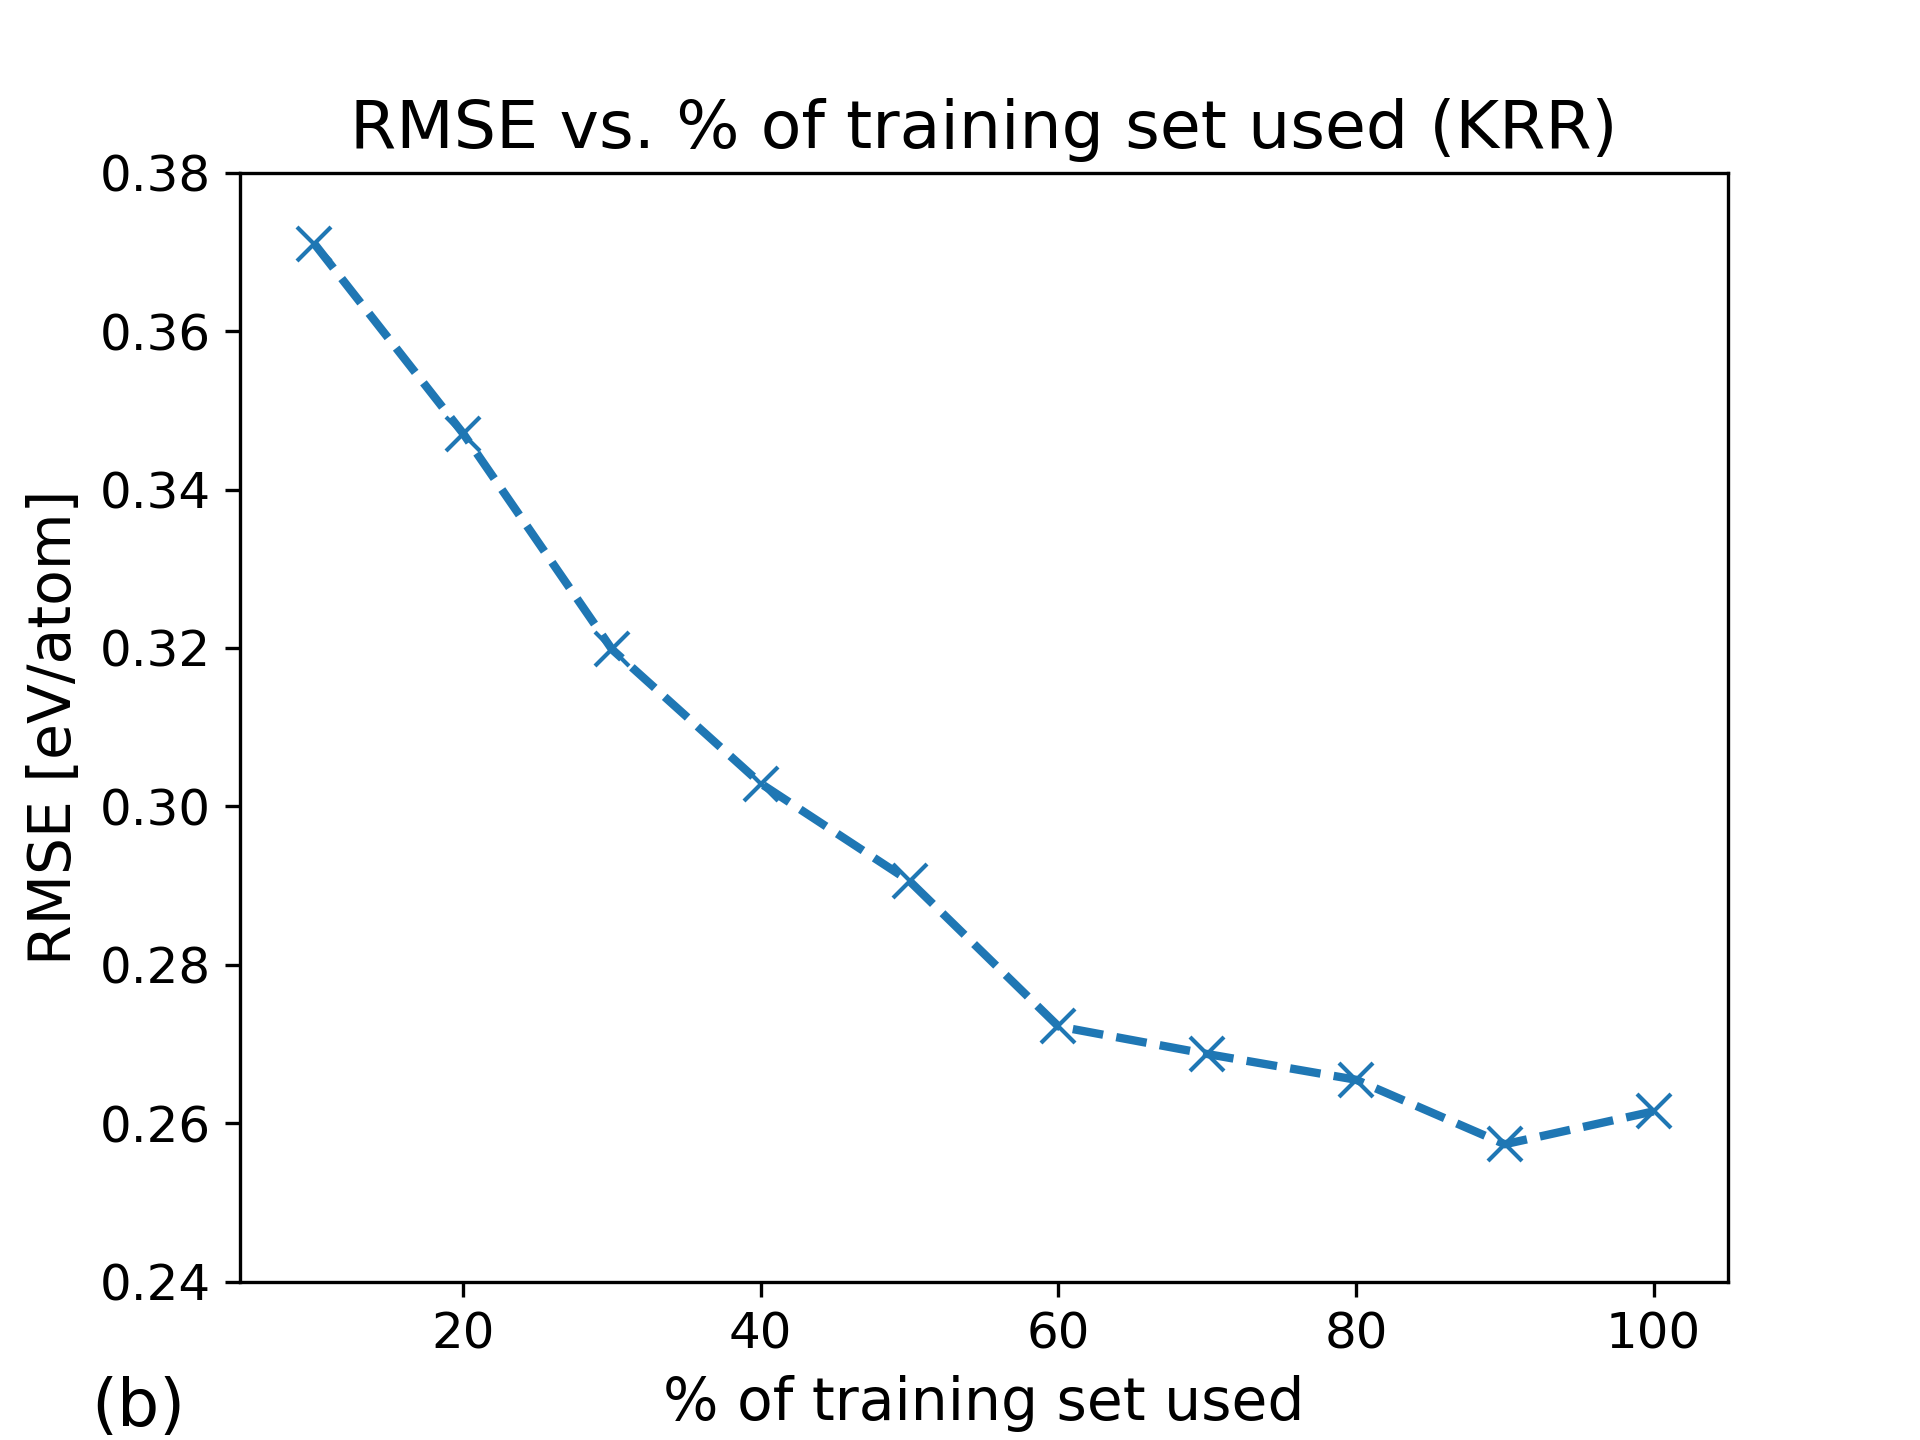
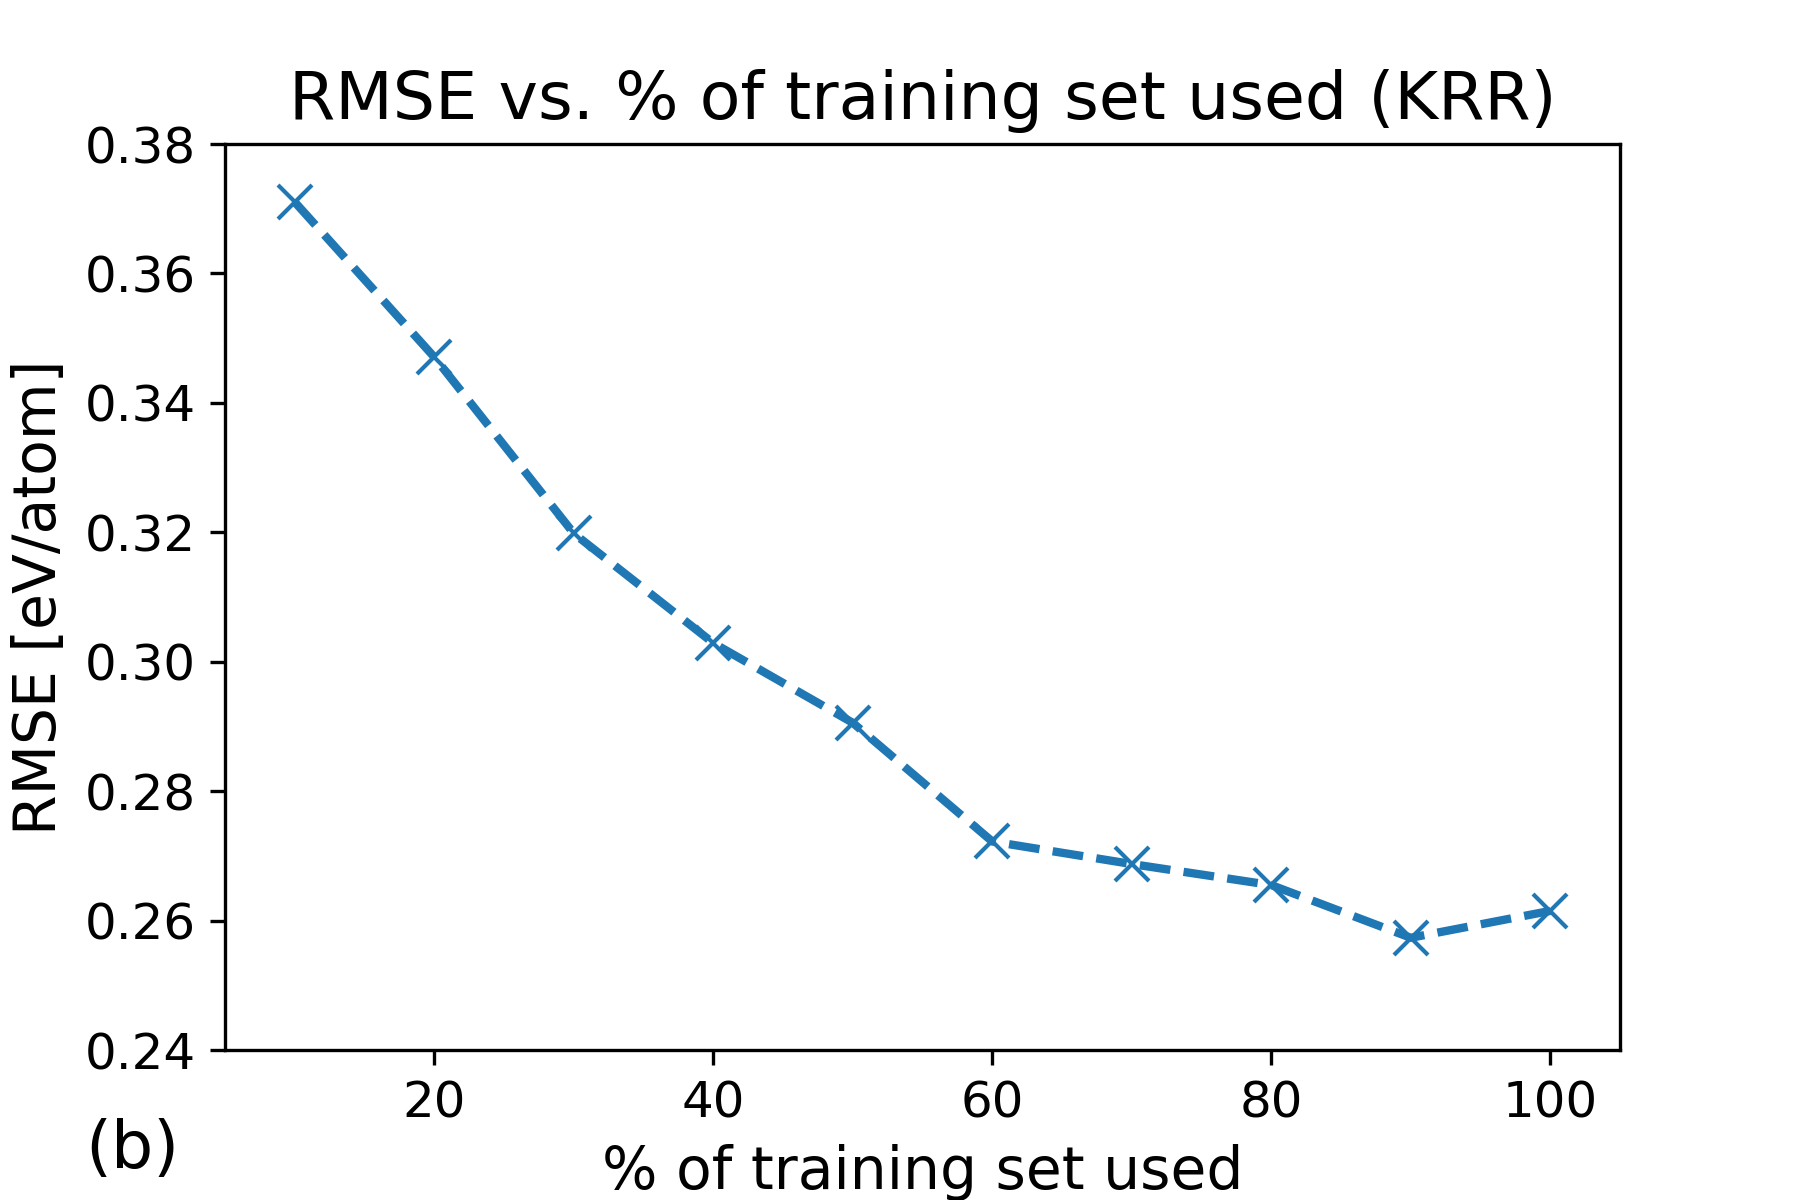
x

diff --git a/sigmoid_relu_plot.py b/sigmoid_relu_plot.py
@@ -1,0 +1,41 @@
+#!/usr/bin/env python3
+# -*- coding: utf-8 -*-
+"""
+Created on Wed Jan 16 01:03:36 2019
+
+@author: simon
+"""
+import math
+import numpy as np
+import matplotlib.pyplot as plt
+
+def sigmoid(z):
+    return 1/(1+math.exp(-z))
+
+def relu(z):
+    return max(0,z)
+
+x=np.arange(-10,10,0.01)
+y1=np.array(list(map(sigmoid, x)))
+y2=np.array(list(map(relu, x)))
+
+
+ax=plt.axes()
+plt.text(0.05,0.9,r'$\sigma (z)=\frac{1}{1+e^{-z}}$',size=20, transform=ax.transAxes)
+plt.text(-0.1,-0.13,'(a)',size=16, transform=ax.transAxes)
+plt.xticks(np.arange(-10,11,5), fontsize=14)
+plt.yticks(fontsize=14)
+plt.title('Sigmoid', fontsize=16)
+plt.plot(x,y1)
+plt.savefig('sigmoid.png',dpi=300)
+plt.show()
+
+
+ax=plt.axes()
+plt.text(0.05,0.9,'$R(z)=max(0,z)$',size=20, transform=ax.transAxes)
+plt.text(-0.1,-0.13,'(b)',size=16, transform=ax.transAxes)
+plt.xticks(np.arange(-10,11,5),fontsize=14)
+plt.yticks(fontsize=14)
+plt.title('ReLU', fontsize=16)
+plt.plot(x,y2)
+plt.savefig('relu.png',dpi=300)

diff --git a/NN/all_plots.py b/NN/all_plots.py
@@ -14,7 +14,7 @@ from matplotlib.ticker import MaxNLocator
 
 os.chdir("Saved")
 
-folders = [f for f in os.listdir() if f!='Old saved' and f!='.DS_Store' and f!='best']
+folders = [f for f in os.listdir() if f!='Old saved' and f!='.DS_Store' and f!='best' and f!='data_size']
 folders.sort()
 
 
@@ -165,11 +165,16 @@ for param in ['acti','m_folder','m_func']:
 
     for val in l1:
         sublist=[di['rmse_val'] for di in data if di[param]==val]
+        sublist2=[di for di in data if di[param]==val]
         try:
             best=min(sublist)
         except:
             best=0
         l2.append(best)
+        for i in sublist2:
+            if i['rmse_val']==best:
+                print(i)
+                print(tick_names[i['m_folder']])
 
 
     m_list=[]

diff --git a/NN/data_size_plots.py b/NN/data_size_plots.py
@@ -52,7 +52,7 @@ plt.xlim(5,105)
 plt.title('RMSE vs. % of training set used (NN)', fontsize=16)
 plt.xticks(fontsize=12)
 plt.yticks(fontsize=12)
-plt.plot(np.array(pct_list)*100,rmse_list, 'x--')
+plt.plot(np.array(pct_list)*100,rmse_list, 'x--', linewidth=2, markersize=8)
 plt.savefig('../../Plots/RMSE_pct_training', dpi=300)
 plt.show()
 

diff --git a/KRR/Saved/learning/batch_plots.py b/KRR/Saved/learning/batch_plots.py
@@ -23,6 +23,5 @@ for l in range(10,110,10):
 plt.plot(x,y, marker='x', linestyle='dashed', linewidth=2, markersize=8)
 plt.ylim(0.24,0.38)
 plt.xlim(5,105)
-plt.show()
 plt.savefig('learning_curve.png', dpi=300)
-#
+plt.show()
